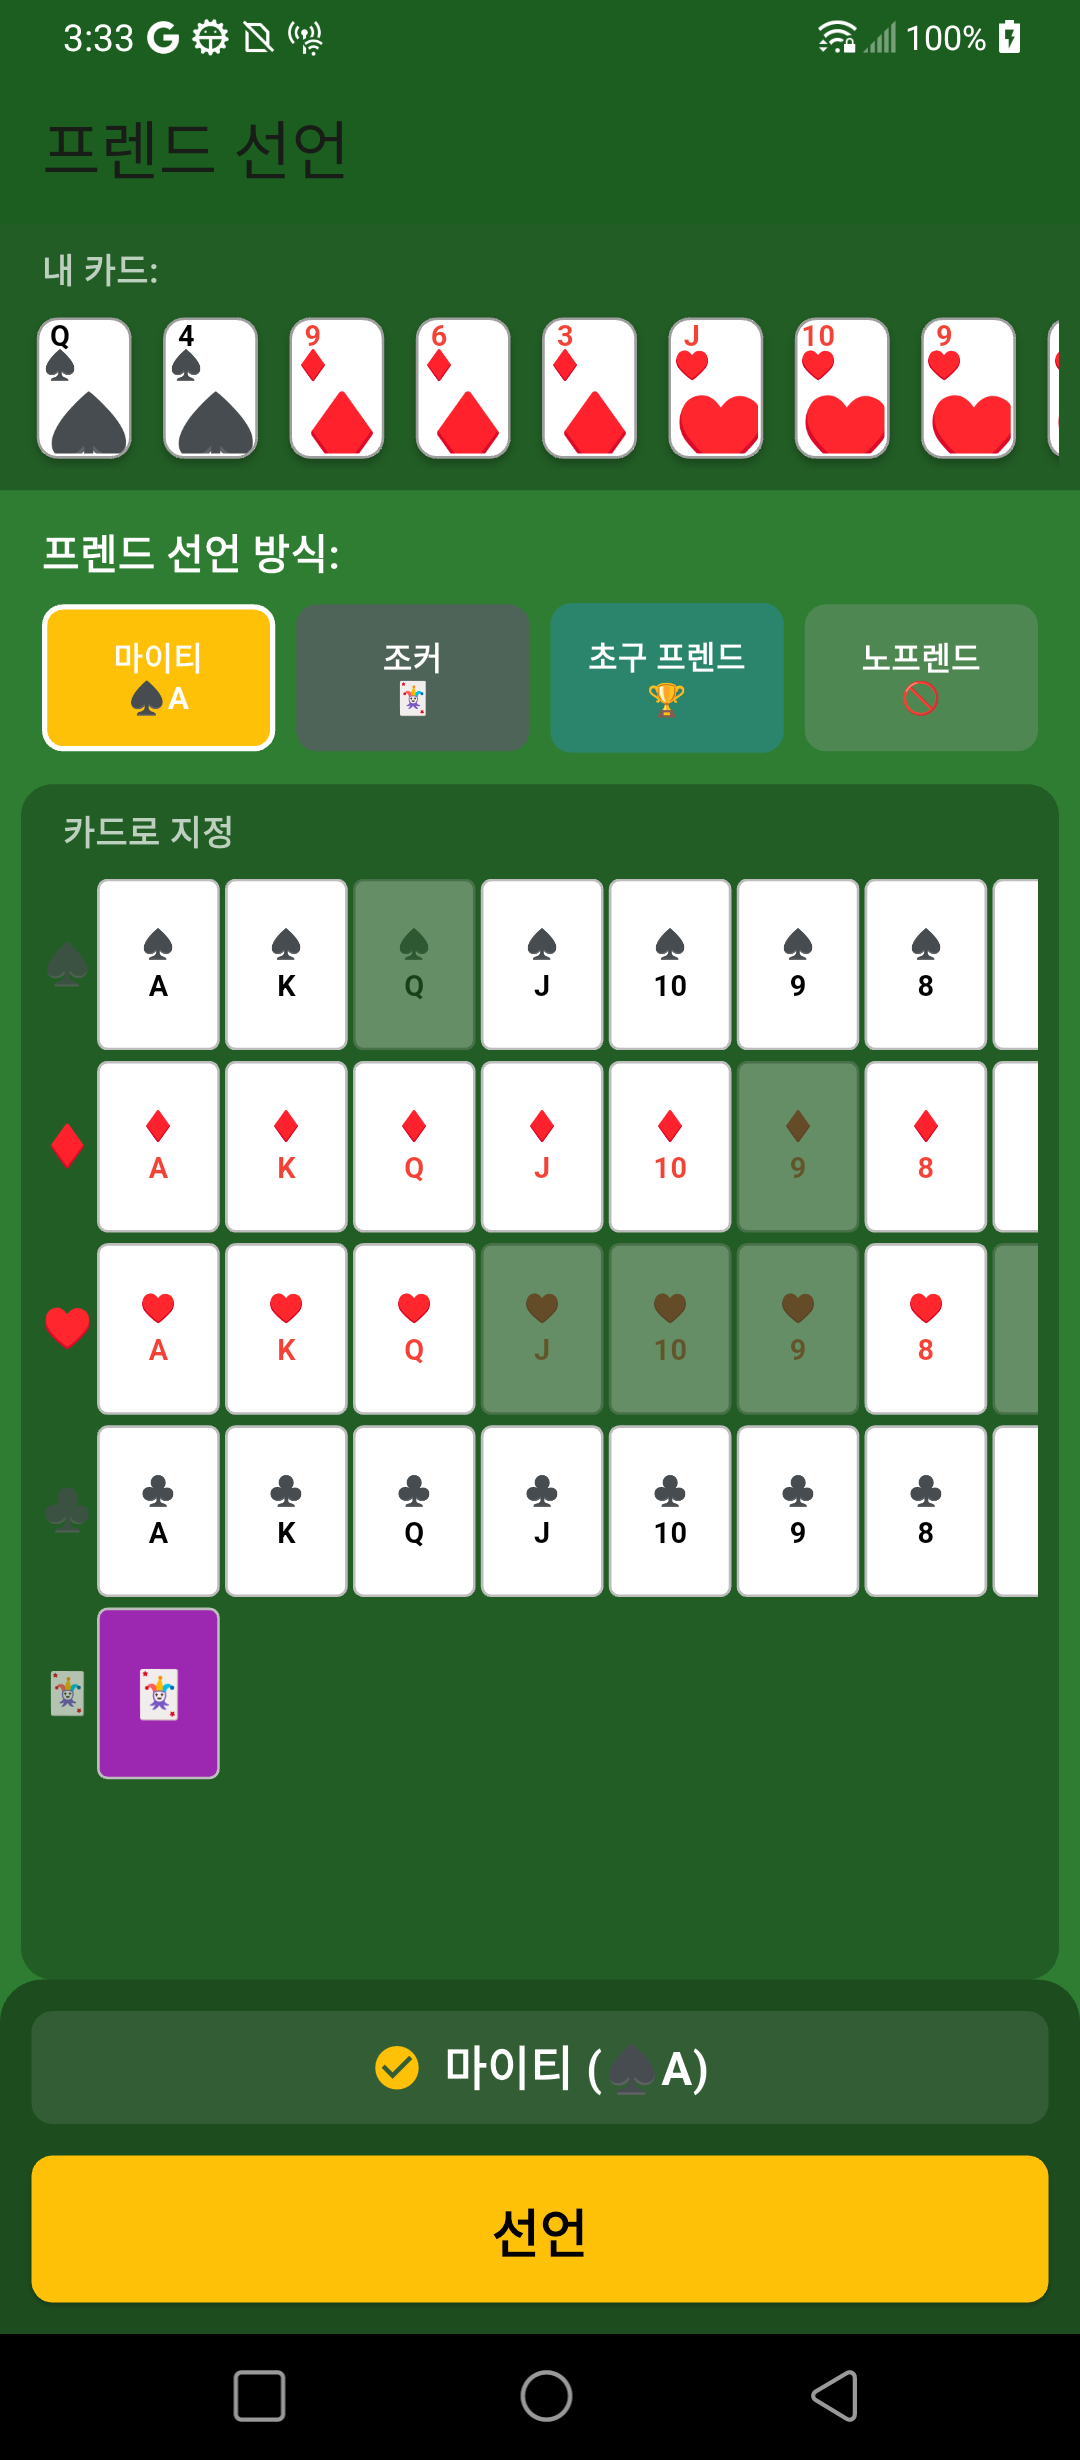
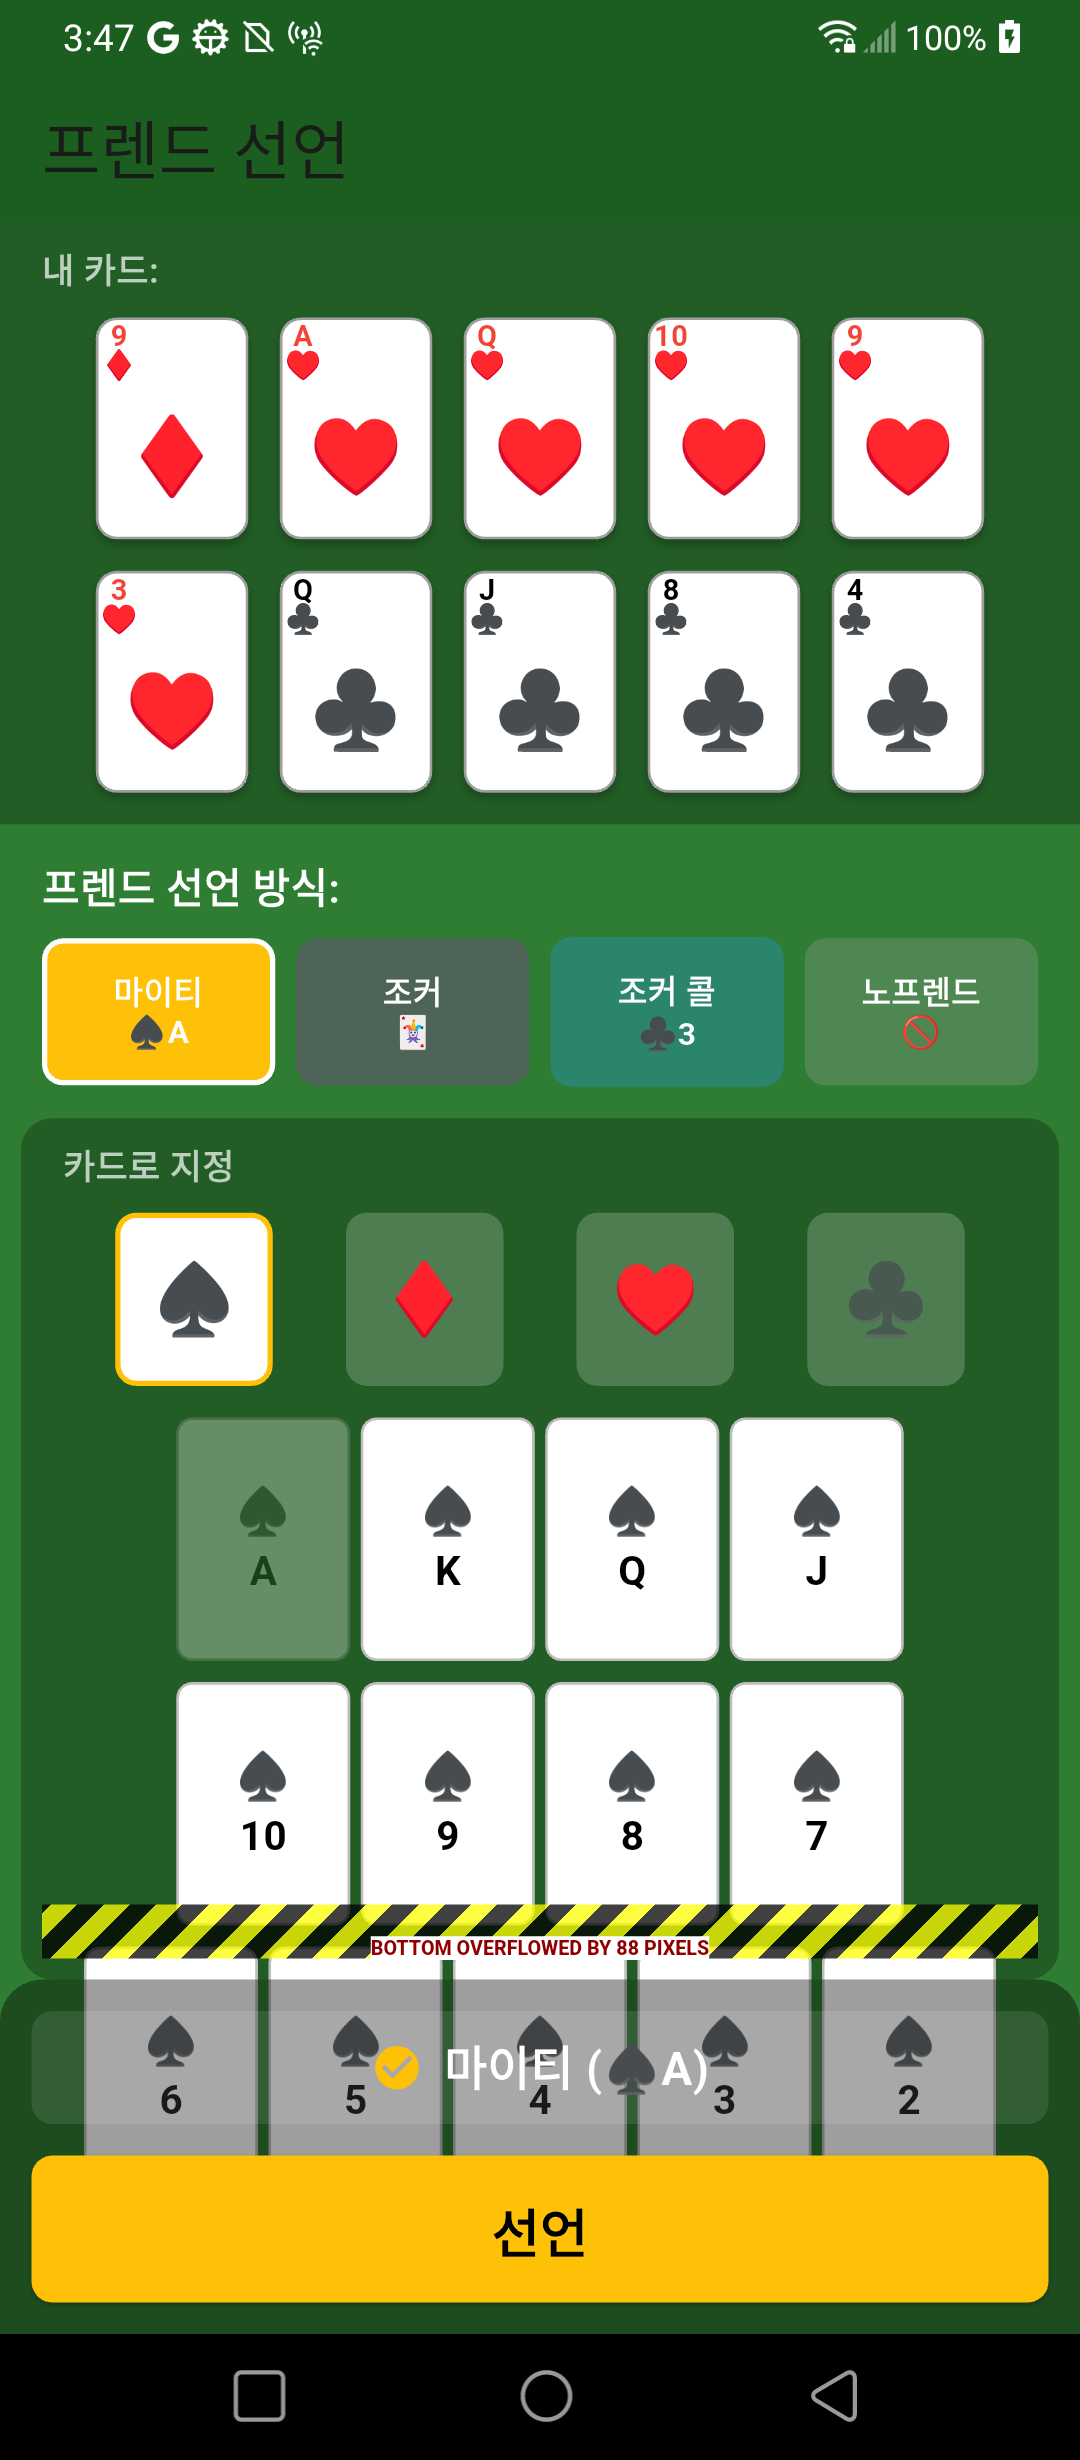
Fix friend selection screen overflow
- Reduce suit selector button size and padding
- Reduce card grid size and spacing
- Fix bottom overflow issue

🤖 Generated with [Claude Code](https://claude.com/claude-code)

diff --git a/lib/screens/friend_dialog.dart b/lib/screens/friend_dialog.dart
@@ -212,7 +212,7 @@ class _FriendSelectionScreenState extends State<FriendSelectionScreen> {
               ),
             ),
 
-            const SizedBox(height: 12),
+            const SizedBox(height: 8),
 
             // 카드로 지정 섹션
             Expanded(
@@ -227,7 +227,7 @@ class _FriendSelectionScreenState extends State<FriendSelectionScreen> {
                   crossAxisAlignment: CrossAxisAlignment.start,
                   children: [
                     Padding(
-                      padding: const EdgeInsets.only(left: 8, bottom: 8),
+                      padding: const EdgeInsets.only(left: 8, bottom: 4),
                       child: Text(
                         l10n.byCard,
                         style: const TextStyle(
@@ -239,7 +239,7 @@ class _FriendSelectionScreenState extends State<FriendSelectionScreen> {
                     ),
                     // 무늬 선택 버튼들
                     _buildSuitSelector(),
-                    const SizedBox(height: 12),
+                    const SizedBox(height: 8),
                     // 선택된 무늬의 카드들 (3열)
                     Expanded(
                       child: _buildCardGrid(),
@@ -457,8 +457,8 @@ class _FriendSelectionScreenState extends State<FriendSelectionScreen> {
         });
       },
       child: Container(
-        width: 60,
-        padding: const EdgeInsets.symmetric(vertical: 12),
+        width: 55,
+        padding: const EdgeInsets.symmetric(vertical: 8),
         decoration: BoxDecoration(
           color: isSelected ? Colors.white : Colors.white.withValues(alpha: 0.2),
           borderRadius: BorderRadius.circular(8),
@@ -471,7 +471,7 @@ class _FriendSelectionScreenState extends State<FriendSelectionScreen> {
           child: Text(
             symbol,
             style: TextStyle(
-              fontSize: 24,
+              fontSize: 20,
               color: isSelected
                   ? (isRed ? Colors.red : Colors.black)
                   : (isRed ? Colors.red[300] : Colors.white70),
@@ -501,16 +501,16 @@ class _FriendSelectionScreenState extends State<FriendSelectionScreen> {
         c.rank == Rank.four || c.rank == Rank.three || c.rank == Rank.two).toList();
 
     final screenWidth = MediaQuery.of(context).size.width;
-    final cardWidth = (screenWidth - 80) / 5;
-    final cardHeight = cardWidth * 1.4;
+    final cardWidth = (screenWidth - 64) / 5.5;
+    final cardHeight = cardWidth * 1.3;
 
     return Column(
       mainAxisAlignment: MainAxisAlignment.center,
       children: [
         _buildCardGridRow(row1, cardWidth, cardHeight),
-        const SizedBox(height: 8),
+        const SizedBox(height: 6),
         _buildCardGridRow(row2, cardWidth, cardHeight),
-        const SizedBox(height: 8),
+        const SizedBox(height: 6),
         _buildCardGridRow(row3, cardWidth, cardHeight),
       ],
     );
